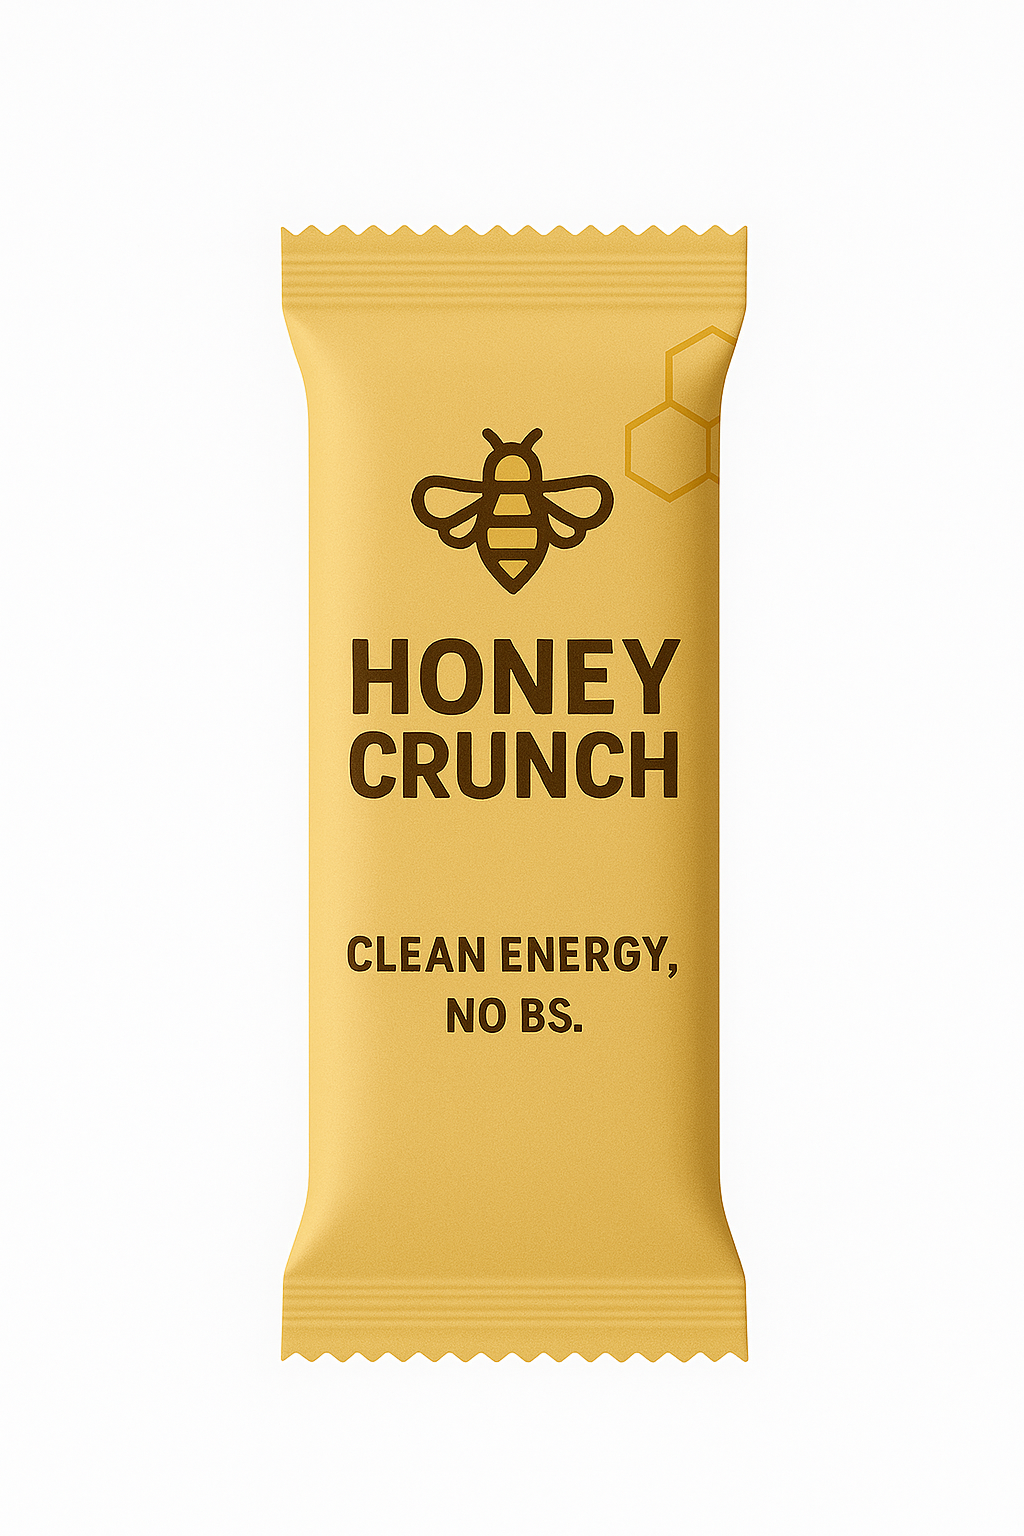
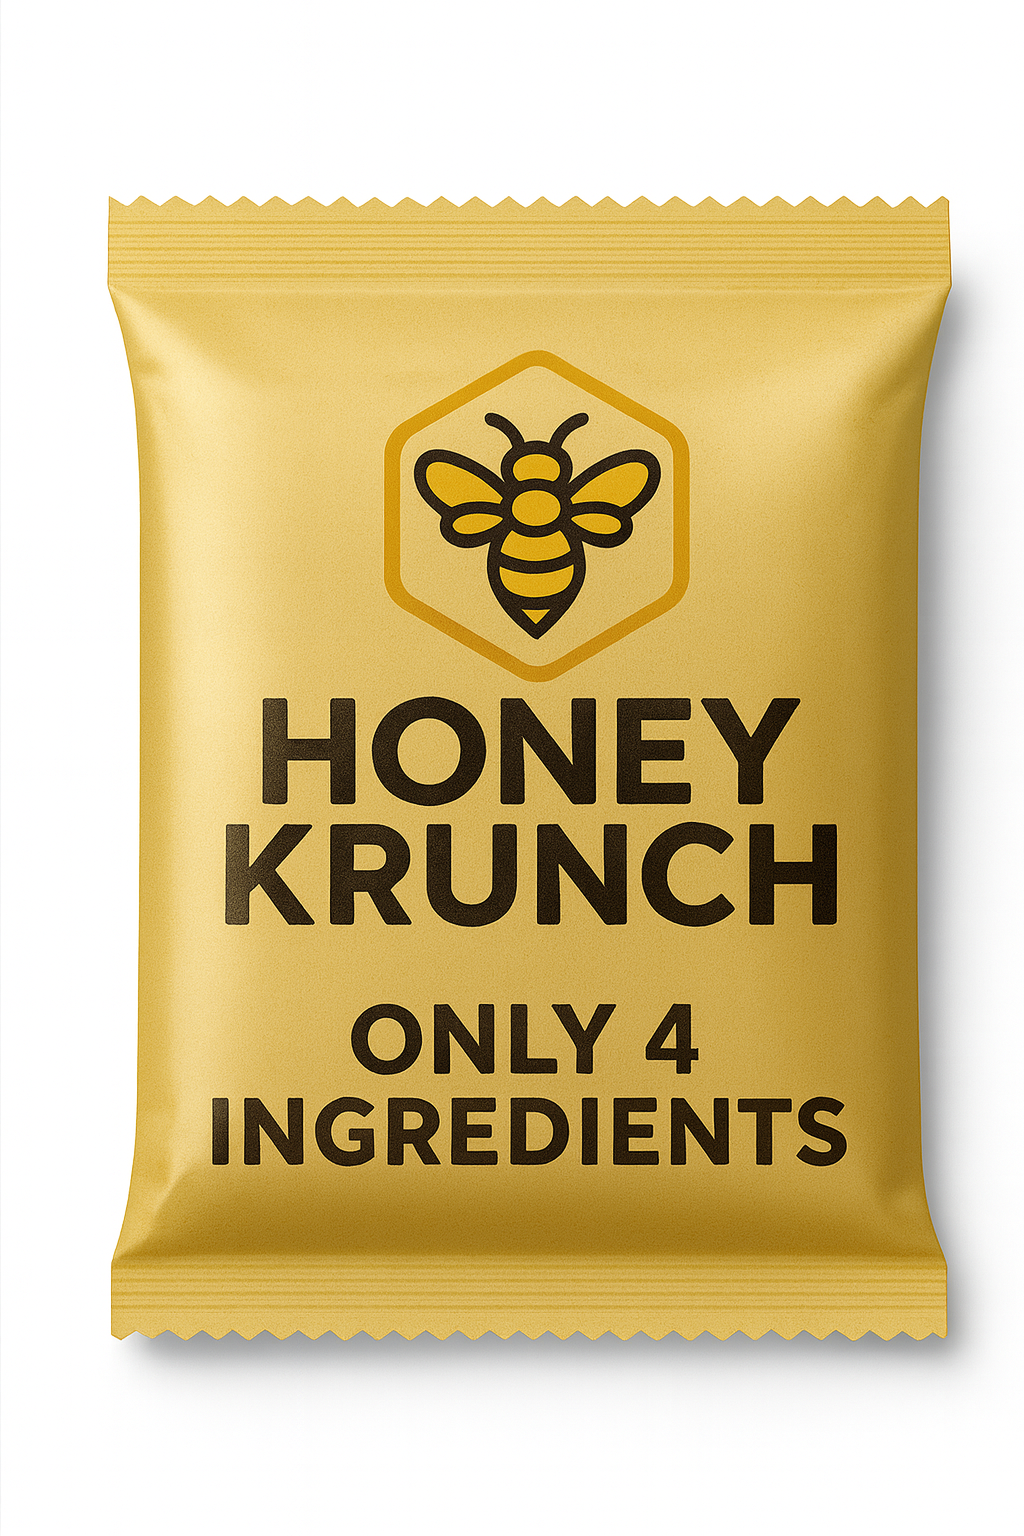
Change Honey Crunch to Huney Crunch and update image
- Renamed product from "Honey Crunch" to "Huney Crunch"
- Updated description to use "Huney Crunch"
- Updated product image (honey-crunch.png)
- Changed product ID to huney-crunch

🤖 Generated with [Claude Code](https://claude.com/claude-code)

diff --git a/app.js b/app.js
@@ -10,9 +10,9 @@ const CONFIG = {
 
   products: [
     {
-      id: 'honey-crunch',
-      name: 'Honey Crunch',
-      description: 'Honey Crunch is a clean, fast-acting source of workout energy made from simple ingredients — raw honey, banana, air-popped brown rice, and gelatin. Same carbs, less sugar, with no BS.',
+      id: 'huney-crunch',
+      name: 'Huney Crunch',
+      description: 'Huney Crunch is a clean, fast-acting source of workout energy made from simple ingredients — raw honey, banana, air-popped brown rice, and gelatin. Same carbs, less sugar, with no BS.',
       image: 'honey-crunch.png'
     },
     {
